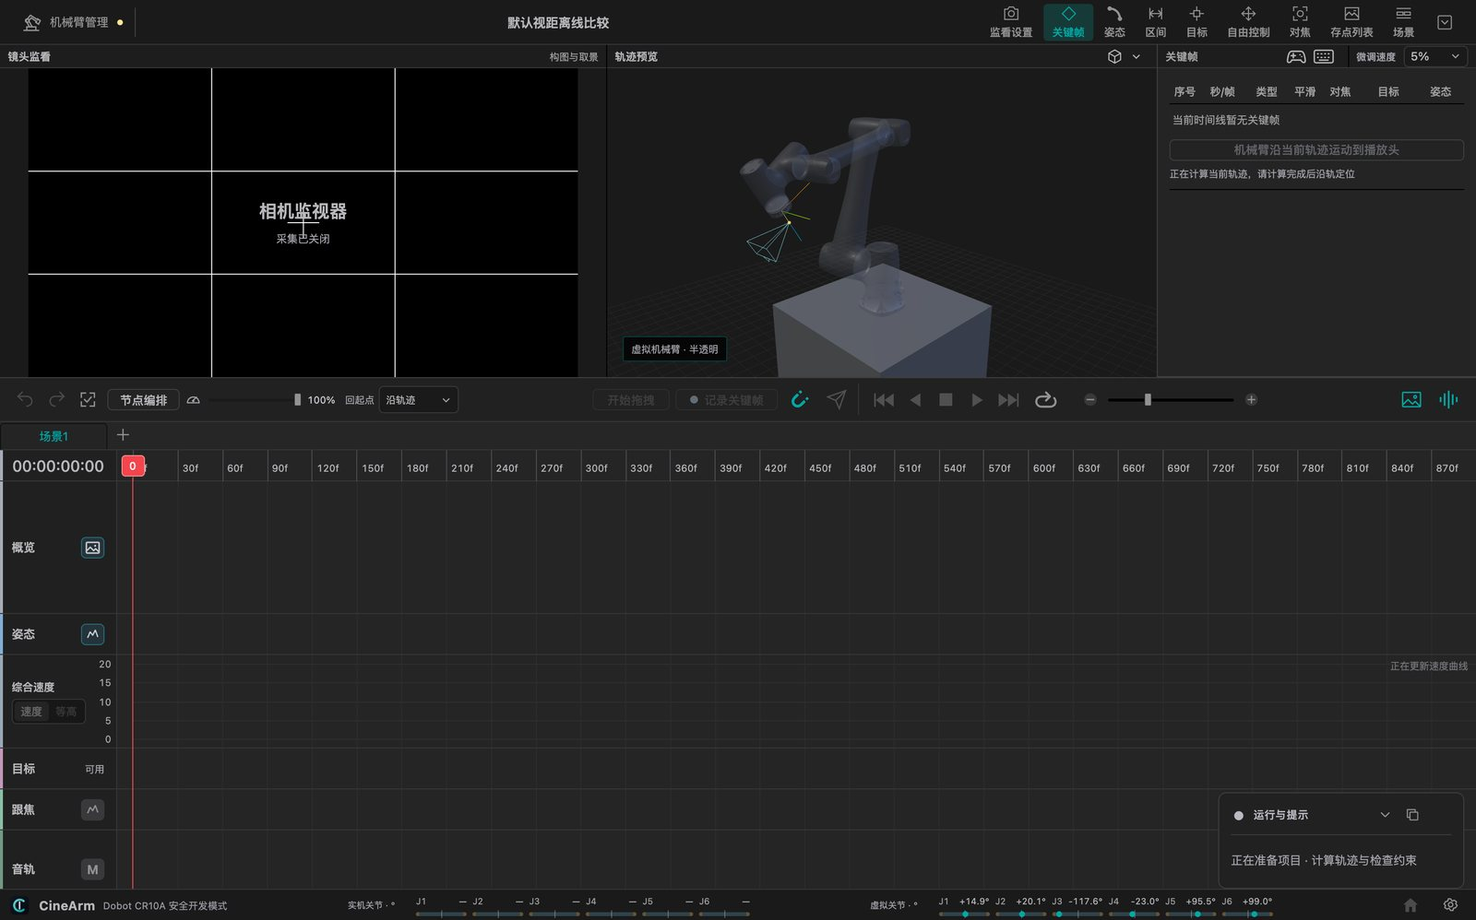
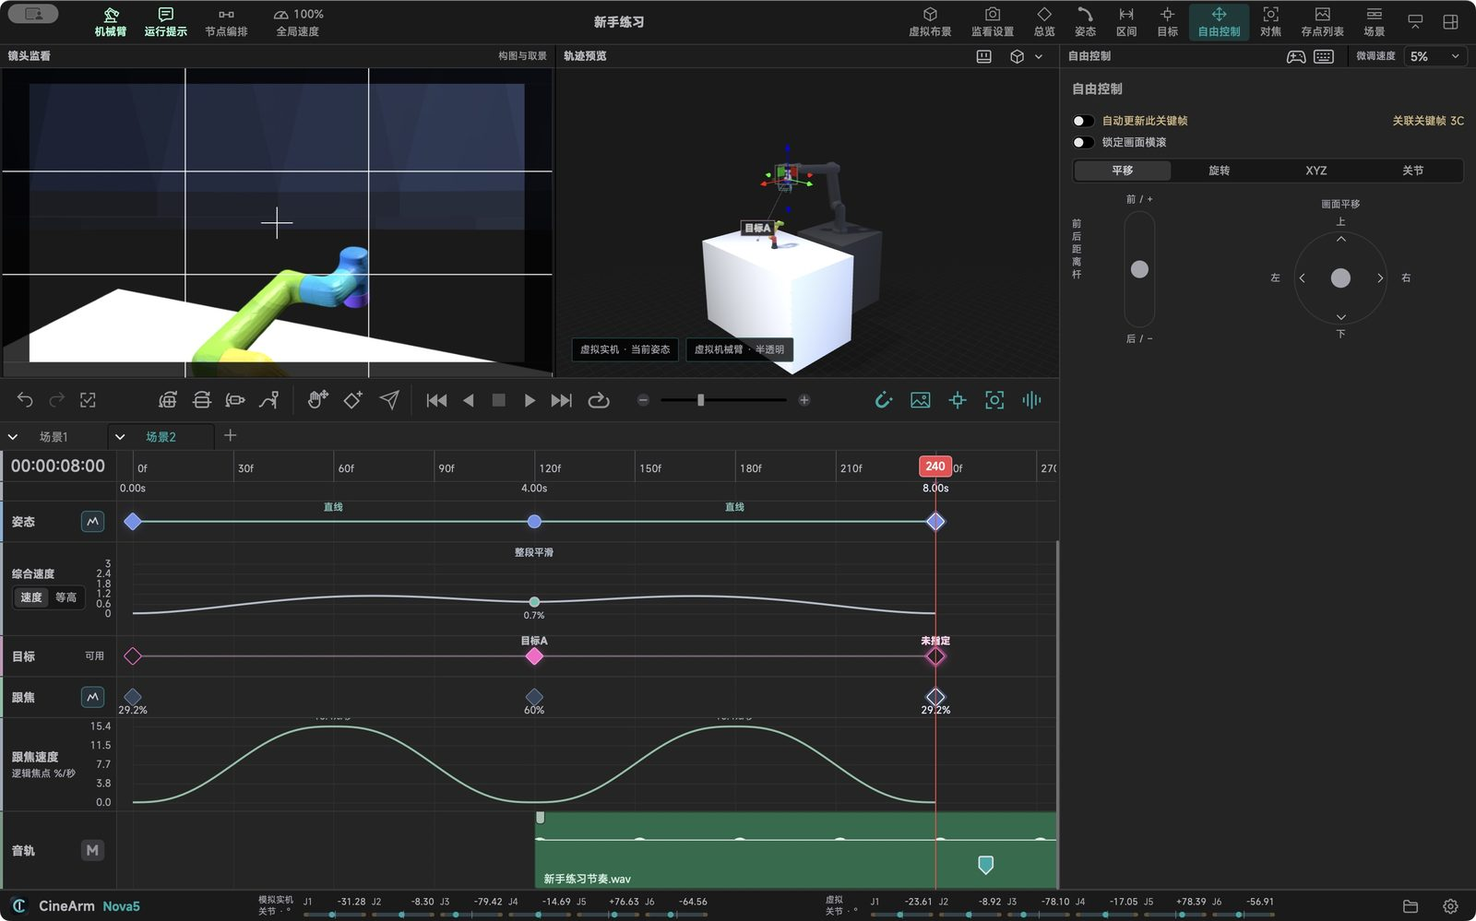
Add per-section manual screenshots to features pages; refresh homepage figure

diff --git a/en/features.html b/en/features.html
@@ -87,6 +87,10 @@
       <div class="detail"><b>Click versus hold</b><span>Joysticks, return bars and continuous keys require holding — release requests a stop. “Move to”, “move to playhead”, the paper plane and the three levelling actions start on a click and finish after release; abort with pause or Esc.</span></div>
     </div>
     <p class="note">Orbiting only changes what you see — <b>it does not turn the camera</b>. Judge framing in the monitor.</p>
+    <figure class="shot">
+      <img src="../assets/img/features/workspace.jpg" alt="The six areas: monitor, 3D preview, inspector, timeline and status bar." loading="lazy" width="1100" height="687">
+      <figcaption>The six areas: monitor, 3D preview, inspector, timeline and status bar.</figcaption>
+    </figure>
   </div>
 </section>
 
@@ -102,6 +106,10 @@
       <div class="detail"><b>iPad backup</b><span>Save first, then use “back up current project” or “export full backup” and restore with import. Backups over 128 MB are split per project.</span></div>
       <div class="detail"><b>Import never overwrites</b><span>Imports always create a new project. The three platforms manage projects separately and <b>do not sync</b>.</span></div>
     </div>
+    <figure class="shot">
+      <img src="../assets/img/features/project.jpg" alt="Scene tabs hold several timelines inside one project." loading="lazy" width="1100" height="687">
+      <figcaption>Scene tabs hold several timelines inside one project.</figcaption>
+    </figure>
   </div>
 </section>
 
@@ -118,6 +126,10 @@
       <div class="detail"><b>Batch housekeeping</b><span>“Delete unused saved positions” clears unreferenced masters; “renumber in order” relabels A, B, C… continuing past Z as AA, AB.</span></div>
     </div>
     <p class="note">Editing one instance keeps the other uses — “same saved position” does not mean every instance moves together.</p>
+    <figure class="shot">
+      <img src="../assets/img/features/gallery.jpg" alt="Saved-position panel: ID, snapshot and usage count per master." loading="lazy" width="1100" height="687">
+      <figcaption>Saved-position panel: ID, snapshot and usage count per master.</figcaption>
+    </figure>
   </div>
 </section>
 
@@ -137,6 +149,10 @@
       <div class="detail"><b>Toolbar</b><span>Undo/redo, multi-select, three levelling modes, go to playhead, drag, record, send mode, back to start, reverse, stop, play, jump to end, loop, zoom, snap, track visibility.</span></div>
       <div class="detail"><b>While running</b><span>The toolbar becomes red pause / continue / end. Hover any control for its exact name.</span></div>
     </div>
+    <figure class="shot">
+      <img src="../assets/img/features/timeline.jpg" alt="Five tracks side by side: overview, pose, target, focus and audio." loading="lazy" width="1100" height="687">
+      <figcaption>Five tracks side by side: overview, pose, target, focus and audio.</figcaption>
+    </figure>
   </div>
 </section>
 
@@ -154,6 +170,10 @@
       <div class="detail"><b>Snapshots</b><span>“Update snapshot” replaces the still, “delete snapshot” removes only the image and keeps the pose; an old still does not prove the current state.</span></div>
       <div class="detail"><b>Standalone overviews</b><span>Segment numbers in the overview add no required points; drag the marker to change time — the inspector time is read-only.</span></div>
     </div>
+    <figure class="shot">
+      <img src="../assets/img/features/edit.jpg" alt="The overview table lists every point's type, smoothing, focus and target." loading="lazy" width="1100" height="687">
+      <figcaption>The overview table lists every point's type, smoothing, focus and target.</figcaption>
+    </figure>
   </div>
 </section>
 
@@ -172,6 +192,10 @@
       <div class="detail"><b>Failures and rollback</b><span>Collinear or degenerate points, mismatched radii, or a 180° opposition that leaves no plane will fail; “restore normal path” cancels at any time.</span></div>
     </div>
     <p class="note">After changing path, timing, speed or target, wait for the full recompute. A successful save does not mean a safe run.</p>
+    <figure class="shot">
+      <img src="../assets/img/features/path.jpg" alt="Path type and smoothing live in the pose menu, beside the speed curve." loading="lazy" width="1100" height="687">
+      <figcaption>Path type and smoothing live in the pose menu, beside the speed curve.</figcaption>
+    </figure>
   </div>
 </section>
 
@@ -189,6 +213,10 @@
       <div class="detail"><b>Looping directions</b><span>The first direction follows global speed; <b>the return runs at the authored 100%</b>. Playing at 20% does not make the way back 20%.</span></div>
       <div class="detail"><b>Global speed resets</b><span>It can return to 100% after ending, stopping or reopening a project — re-check before the next run.</span></div>
     </div>
+    <figure class="shot">
+      <img src="../assets/img/features/speed.jpg" alt="Interval settings: speed curve and smoothing configured separately." loading="lazy" width="1100" height="687">
+      <figcaption>Interval settings: speed curve and smoothing configured separately.</figcaption>
+    </figure>
   </div>
 </section>
 
@@ -204,6 +232,10 @@
       <div class="detail"><b>Arc prerequisite</b><span>The arc mode expects equal radius from both positions — <b>the software will not quietly move an endpoint to make the circle work</b>.</span></div>
       <div class="detail"><b>When no plane exists</b><span>Coincident endpoints, unequal radii, or a 180° opposition leave the plane undefined; adjust the positions, and split long orbits into equal-radius points.</span></div>
     </div>
+    <figure class="shot">
+      <img src="../assets/img/features/target.jpg" alt="Target control: create a point and keep the whole move aimed at it." loading="lazy" width="1100" height="687">
+      <figcaption>Target control: create a point and keep the whole move aimed at it.</figcaption>
+    </figure>
   </div>
 </section>
 
@@ -223,6 +255,10 @@
       <div class="detail"><b>Update from the arm</b><span>“Update keyframe from current arm position” overwrites with the live pose — it is not a positioning button.</span></div>
       <div class="detail"><b>Saving and undo</b><span>Links, endpoints, parameters and layout save with the project and participate in undo; rewiring can invalidate inherited timing and reconnecting does not guarantee a restore.</span></div>
     </div>
+    <figure class="shot">
+      <img src="../assets/img/features/node.jpg" alt="Node workbench: cards are positions, links are routes." loading="lazy" width="1100" height="687">
+      <figcaption>Node workbench: cards are positions, links are routes.</figcaption>
+    </figure>
   </div>
 </section>
 
@@ -239,6 +275,10 @@
       <div class="detail"><b>Joint arrow jog</b><span>Hold an axis direction to move, release to stop. Alarm jog is fixed at 1%; normal jog uses the selected jog speed.</span></div>
       <div class="detail"><b>Stop semantics</b><span>Release, lost capture, focus loss, going to background or Esc all request a stop; releasing during preparation cancels the start and a late reply will not restart motion.</span></div>
     </div>
+    <figure class="shot">
+      <img src="../assets/img/features/manual.jpg" alt="Free control panels for translation and rotation, with numeric entry." loading="lazy" width="1100" height="687">
+      <figcaption>Free control panels for translation and rotation, with numeric entry.</figcaption>
+    </figure>
   </div>
 </section>
 
@@ -254,6 +294,10 @@
       <div class="detail"><b>Adapter weight</b><span>Register the adapter weight in preferences; it participates in the payload calculation.</span></div>
       <div class="detail"><b>Camera levelling</b><span>Level with numeric entry; roll and pitch stay readable in the interface.</span></div>
     </div>
+    <figure class="shot">
+      <img src="../assets/img/features/load.jpg" alt="Payload and camera tools: weight, centre of mass and lens data." loading="lazy" width="1100" height="687">
+      <figcaption>Payload and camera tools: weight, centre of mass and lens data.</figcaption>
+    </figure>
   </div>
 </section>
 
@@ -272,6 +316,10 @@
       <div class="detail"><b>While running</b><span>Pause and continue, or choose “send arm only” to drop focus; dismissing a prompt is not the same as a successful joint run.</span></div>
     </div>
     <p class="note">Reopening a project keeps bindings but not connections or authorisation; after switching machines, verify identity and rebind.</p>
+    <figure class="shot">
+      <img src="../assets/img/features/focus.jpg" alt="The focus panel separates current focus, the selected key and Air4 state." loading="lazy" width="1100" height="687">
+      <figcaption>The focus panel separates current focus, the selected key and Air4 state.</figcaption>
+    </figure>
   </div>
 </section>
 
@@ -290,6 +338,10 @@
       <div class="detail"><b>Virtual focal length</b><span>10–300 mm changes the virtual framing (default 50 mm); monitor zoom only changes the display.</span></div>
     </div>
     <p class="note">There is no false colour, zebras, waveform, monitor recording or lens library yet, and the set does not detect a real table or prove absence of collisions.</p>
+    <figure class="shot">
+      <img src="../assets/img/features/monitor.jpg" alt="Monitor overlays: thirds grid, centre mark, safe area and peaking." loading="lazy" width="1100" height="687">
+      <figcaption>Monitor overlays: thirds grid, centre mark, safe area and peaking.</figcaption>
+    </figure>
   </div>
 </section>
 
@@ -307,6 +359,10 @@
       <div class="detail"><b>Relinking</b><span>Right-click a missing clip and pick the original file; its length must cover all trims and markers, and other references update too.</span></div>
       <div class="detail"><b>Asset retention</b><span>On desktop, migrate the <code>.cinearm-audio</code> folder with the project; auditioning in a browser does not mean the asset is safely stored.</span></div>
     </div>
+    <figure class="shot">
+      <img src="../assets/img/features/audio.jpg" alt="Audio waveform with clips; beat markers drop straight onto the wave." loading="lazy" width="1100" height="687">
+      <figcaption>Audio waveform with clips; beat markers drop straight onto the wave.</figcaption>
+    </figure>
   </div>
 </section>
 
@@ -326,6 +382,10 @@
       <div class="detail"><b>Four recovery entries</b><span>Recover control, exit safely and disable motion, clear alarms, joint arrow jog — each for a different state; unknown or multiple alarms release no motion.</span></div>
       <div class="detail"><b>Two boundaries</b><span>Uploading a trajectory is not saving a project (never copy a <code>.cinearm</code> into the controller); file playback marks progress on DO1–DO6, so check those outputs' wiring.</span></div>
     </div>
+    <figure class="shot">
+      <img src="../assets/img/features/send.jpg" alt="With send mode on, I/O map to the arm returning to start and end." loading="lazy" width="1100" height="687">
+      <figcaption>With send mode on, I/O map to the arm returning to start and end.</figcaption>
+    </figure>
   </div>
 </section>
 
@@ -357,6 +417,10 @@
       <div class="detail"><b>End-effector button</b><span>The end-effector button can trigger on a single press and be bound to an action.</span></div>
       <div class="detail"><b>Unassigned commands</b><span>Some commands ship without a default key and must be assigned before use.</span></div>
     </div>
+    <figure class="shot">
+      <img src="../assets/img/features/shortcuts.jpg" alt="The shortcut window supports search, filters and multiple bindings." loading="lazy" width="1100" height="687">
+      <figcaption>The shortcut window supports search, filters and multiple bindings.</figcaption>
+    </figure>
   </div>
 </section>
 
@@ -374,6 +438,10 @@
       <div class="detail"><b>Speed curve algorithm</b><span>New timelines can use “quintic smoothing” or “piecewise S-curve”, defaulting to quintic; existing timelines keep their settings.</span></div>
       <div class="detail"><b>Saving semantics</b><span>Most pages hold a draft until you press save; cancelling or closing prompts to discard. Settings are locked while running or while a stop is unverified.</span></div>
     </div>
+    <figure class="shot">
+      <img src="../assets/img/features/settings.jpg" alt="Preferences: six categories on the left." loading="lazy" width="1100" height="687">
+      <figcaption>Preferences: six categories on the left.</figcaption>
+    </figure>
   </div>
 </section>
 

diff --git a/features.html b/features.html
@@ -85,6 +85,10 @@
       <div class="detail"><b>单击与按住</b><span>摇杆、回弹杆、持续运动键要拖住或按住，松手请求停止；「运动到」「运动到播放头」、纸飞机和相机调平是单击启动、松手继续，用暂停或 Esc 中止。</span></div>
     </div>
     <p class="note">浏览视角只改变你看到的画面，<b>不等于摄影机转向主体</b>；构图要看镜头监看。</p>
+    <figure class="shot">
+      <img src="assets/img/features/workspace.jpg" alt="工作台六个区域：镜头监看、三维预览、检查器、时间线与底栏各司其职。" loading="lazy" width="1100" height="687">
+      <figcaption>工作台六个区域：镜头监看、三维预览、检查器、时间线与底栏各司其职。</figcaption>
+    </figure>
   </div>
 </section>
 
@@ -100,6 +104,10 @@
       <div class="detail"><b>iPad 备份</b><span>先保存，再从项目管理器「备份当前项目」或「导出完整备份」，用「导入项目 / 备份」恢复；超过 128MB 会按项目分批。</span></div>
       <div class="detail"><b>导入不覆盖</b><span>导入总是建为新项目，原项目保留；三端各自管理项目，<b>不会自动同步</b>。</span></div>
     </div>
+    <figure class="shot">
+      <img src="assets/img/features/project.jpg" alt="场景标签页管理同一项目里的多条时间线。" loading="lazy" width="1100" height="687">
+      <figcaption>场景标签页管理同一项目里的多条时间线。</figcaption>
+    </figure>
   </div>
 </section>
 
@@ -116,6 +124,10 @@
       <div class="detail"><b>批量整理</b><span>右键面板空白可「删除未使用存点」一次清理无引用母版；「按顺序重命名存点」按列表从 A、B、C… 重编，超过 Z 继续 AA、AB。</span></div>
     </div>
     <p class="note">修改一个被多处使用的实例时，软件按实例与母版的关系保留其他使用 —— 不能把「同一存点」理解为所有实例一起移动。</p>
+    <figure class="shot">
+      <img src="assets/img/features/gallery.jpg" alt="存点面板：每个母版带编号、快照和使用次数。" loading="lazy" width="1100" height="687">
+      <figcaption>存点面板：每个母版带编号、快照和使用次数。</figcaption>
+    </figure>
   </div>
 </section>
 
@@ -135,6 +147,10 @@
       <div class="detail"><b>工具栏</b><span>撤销／重做、多选、三种调平、到播放头、拖拽、记录、发送模式、回起点、倒放、停止、正放、回终点、循环、缩放、吸附、轨道显示。</span></div>
       <div class="detail"><b>运行时切换</b><span>设备运行期间，工具栏变成红色暂停／继续／结束；悬停可看每个按钮的准确名称。</span></div>
     </div>
+    <figure class="shot">
+      <img src="assets/img/features/timeline.jpg" alt="五条轨道并列：概览、姿态、目标、跟焦与音轨。" loading="lazy" width="1100" height="687">
+      <figcaption>五条轨道并列：概览、姿态、目标、跟焦与音轨。</figcaption>
+    </figure>
   </div>
 </section>
 
@@ -152,6 +168,10 @@
       <div class="detail"><b>快照</b><span>右键「更新快照」替换图片，「删除快照」只删图保留姿态；旧图不证明当前状态仍相同。</span></div>
       <div class="detail"><b>独立概览</b><span>概览里的区间编号不新增必经点；改时间拖概览标记，检查器里的时间只读显示。</span></div>
     </div>
+    <figure class="shot">
+      <img src="assets/img/features/edit.jpg" alt="总览表把整条镜头的点位、类型、平滑、对焦和目标排成一张表。" loading="lazy" width="1100" height="687">
+      <figcaption>总览表把整条镜头的点位、类型、平滑、对焦和目标排成一张表。</figcaption>
+    </figure>
   </div>
 </section>
 
@@ -170,6 +190,10 @@
       <div class="detail"><b>失败与回退</b><span>共线、退化、半径不一致或正对 180° 无法确定平面时会失败；「恢复为普通路径」可随时取消。</span></div>
     </div>
     <p class="note">每次改路径、时间、速度或目标后，等完整重算再看三维图和运行提示 —— 保存成功不等于可以执行。</p>
+    <figure class="shot">
+      <img src="assets/img/features/path.jpg" alt="路径类型与平滑方式在姿态点菜单里切换，旁边是速度曲线。" loading="lazy" width="1100" height="687">
+      <figcaption>路径类型与平滑方式在姿态点菜单里切换，旁边是速度曲线。</figcaption>
+    </figure>
   </div>
 </section>
 
@@ -187,6 +211,10 @@
       <div class="detail"><b>循环两个方向</b><span>首发方向按全局速度，<b>反向每圈按原编排 100%</b>；正放 20% 不代表回程也 20%。</span></div>
       <div class="detail"><b>全局速度复位</b><span>结束、停止或重开项目后可能恢复 100%，下次运行前再看一眼当前值。</span></div>
     </div>
+    <figure class="shot">
+      <img src="assets/img/features/speed.jpg" alt="区间设置里可以分别设定速度曲线与平滑。" loading="lazy" width="1100" height="687">
+      <figcaption>区间设置里可以分别设定速度曲线与平滑。</figcaption>
+    </figure>
   </div>
 </section>
 
@@ -202,6 +230,10 @@
       <div class="detail"><b>圆弧的前提</b><span>围绕目标的圆弧要求两端光心到目标等半径，<b>软件不会偷偷移动端点凑圆</b>。</span></div>
       <div class="detail"><b>无法定平面</b><span>端点重合、半径不同、或正相对 180° 时无法确定圆弧平面，需要调整机位；长环绕用多个等半径点分段。</span></div>
     </div>
+    <figure class="shot">
+      <img src="assets/img/features/target.jpg" alt="目标控制：建立空间目标，让整段运动持续朝向它。" loading="lazy" width="1100" height="687">
+      <figcaption>目标控制：建立空间目标，让整段运动持续朝向它。</figcaption>
+    </figure>
   </div>
 </section>
 
@@ -221,6 +253,10 @@
       <div class="detail"><b>更新关键帧</b><span>「以当前实机位置更新关键帧」用当前有效静止姿态覆盖，它不是定位按钮。</span></div>
       <div class="detail"><b>保存与撤销</b><span>连线、端点、参数、布局随项目保存并参与撤销；重接路线可能使原高级时间失效，接回不保证恢复。</span></div>
     </div>
+    <figure class="shot">
+      <img src="assets/img/features/node.jpg" alt="节点工作台：卡片代表机位，连线代表路线。" loading="lazy" width="1100" height="687">
+      <figcaption>节点工作台：卡片代表机位，连线代表路线。</figcaption>
+    </figure>
   </div>
 </section>
 
@@ -237,6 +273,10 @@
       <div class="detail"><b>关节箭头点动</b><span>按住对应关节方向移动、松开停止；限位报警时报警点动固定 1%，普通点动用所选微调速度。</span></div>
       <div class="detail"><b>停止语义</b><span>松手、捕获丢失、失焦、切后台或 Esc 都会请求停止；准备阶段松手会取消启动，迟到应答不会重新运动。</span></div>
     </div>
+    <figure class="shot">
+      <img src="assets/img/features/manual.jpg" alt="自由操控的平移与旋转面板，配合数字输入找机位。" loading="lazy" width="1100" height="687">
+      <figcaption>自由操控的平移与旋转面板，配合数字输入找机位。</figcaption>
+    </figure>
   </div>
 </section>
 
@@ -252,6 +292,10 @@
       <div class="detail"><b>转接件重量</b><span>偏好设置里可登记转接件并保存，参与负载计算。</span></div>
       <div class="detail"><b>相机调平</b><span>配合数字输入把相机调到水平，横滚和俯仰在界面上可读。</span></div>
     </div>
+    <figure class="shot">
+      <img src="assets/img/features/load.jpg" alt="负载与相机工具：填写重量、重心与镜头参数。" loading="lazy" width="1100" height="687">
+      <figcaption>负载与相机工具：填写重量、重心与镜头参数。</figcaption>
+    </figure>
   </div>
 </section>
 
@@ -270,6 +314,10 @@
       <div class="detail"><b>运行中</b><span>可暂停、继续，也可「仅发送机械臂」放弃跟焦；关闭提示不等于联合成功。</span></div>
     </div>
     <p class="note">项目重开保留绑定但不恢复连接或授权；换电脑或 iPad 后先核对身份再重新绑定。</p>
+    <figure class="shot">
+      <img src="assets/img/features/focus.jpg" alt="对焦面板区分当前焦点、所选关键帧与 Air4 连接状态。" loading="lazy" width="1100" height="687">
+      <figcaption>对焦面板区分当前焦点、所选关键帧与 Air4 连接状态。</figcaption>
+    </figure>
   </div>
 </section>
 
@@ -288,6 +336,10 @@
       <div class="detail"><b>虚拟焦距</b><span>10–300mm 改变虚拟取景，默认 50mm；监看缩放只改显示，不代替焦距。</span></div>
     </div>
     <p class="note">当前没有伪色、斑马、波形示波器、监看录像和镜头库入口；布景不检测真实桌子，也不证明无碰撞。</p>
+    <figure class="shot">
+      <img src="assets/img/features/monitor.jpg" alt="监看设置：三分网格、中央标记、安全区与峰值辅助。" loading="lazy" width="1100" height="687">
+      <figcaption>监看设置：三分网格、中央标记、安全区与峰值辅助。</figcaption>
+    </figure>
   </div>
 </section>
 
@@ -305,6 +357,10 @@
       <div class="detail"><b>重新链接</b><span>缺失片段右键选原文件，长度须覆盖全部裁剪与标记；同素材引用一起更新。</span></div>
       <div class="detail"><b>素材保留</b><span>桌面保存后要带 <code>.cinearm-audio</code> 一起迁移；浏览器试听不等于素材已可靠保存。</span></div>
     </div>
+    <figure class="shot">
+      <img src="assets/img/features/audio.jpg" alt="音轨波形与片段，节拍标记直接打在波形上。" loading="lazy" width="1100" height="687">
+      <figcaption>音轨波形与片段，节拍标记直接打在波形上。</figcaption>
+    </figure>
   </div>
 </section>
 
@@ -324,6 +380,10 @@
       <div class="detail"><b>四个恢复入口</b><span>恢复控制、安全退出并关闭运动控制、清除报警、关节箭头点动 —— 各适用不同状态，未知或多重报警不放行动作。</span></div>
       <div class="detail"><b>两条边界</b><span>上传轨迹不是保存项目，别把 <code>.cinearm</code> 塞进控制柜；文件播放用 DO1–DO6 标进度，先核对外设接线。</span></div>
     </div>
+    <figure class="shot">
+      <img src="assets/img/features/send.jpg" alt="发送模式开启后，I／O 对应机械臂回播放起点与终点。" loading="lazy" width="1100" height="687">
+      <figcaption>发送模式开启后，I／O 对应机械臂回播放起点与终点。</figcaption>
+    </figure>
   </div>
 </section>
 
@@ -355,6 +415,10 @@
       <div class="detail"><b>末端按键</b><span>末端按钮支持单击触发，可绑定为特定动作。</span></div>
       <div class="detail"><b>未分配项</b><span>部分命令没有默认键，需先分配才能使用。</span></div>
     </div>
+    <figure class="shot">
+      <img src="assets/img/features/shortcuts.jpg" alt="软件快捷键窗口：支持搜索、筛选与多组绑定。" loading="lazy" width="1100" height="687">
+      <figcaption>软件快捷键窗口：支持搜索、筛选与多组绑定。</figcaption>
+    </figure>
   </div>
 </section>
 
@@ -372,6 +436,10 @@
       <div class="detail"><b>速度曲线算法</b><span>新建时间线可选「五次平滑」或「分段 S 曲线」，默认五次平滑；只对新建时间线生效，旧项目保持原设置。</span></div>
       <div class="detail"><b>保存语义</b><span>多数页面先成草稿，底部「保存」生效；取消或关闭会提示放弃。运行及未确认停止时设置被锁定。</span></div>
     </div>
+    <figure class="shot">
+      <img src="assets/img/features/settings.jpg" alt="偏好设置左侧六类栏目。" loading="lazy" width="1100" height="687">
+      <figcaption>偏好设置左侧六类栏目。</figcaption>
+    </figure>
   </div>
 </section>
 
